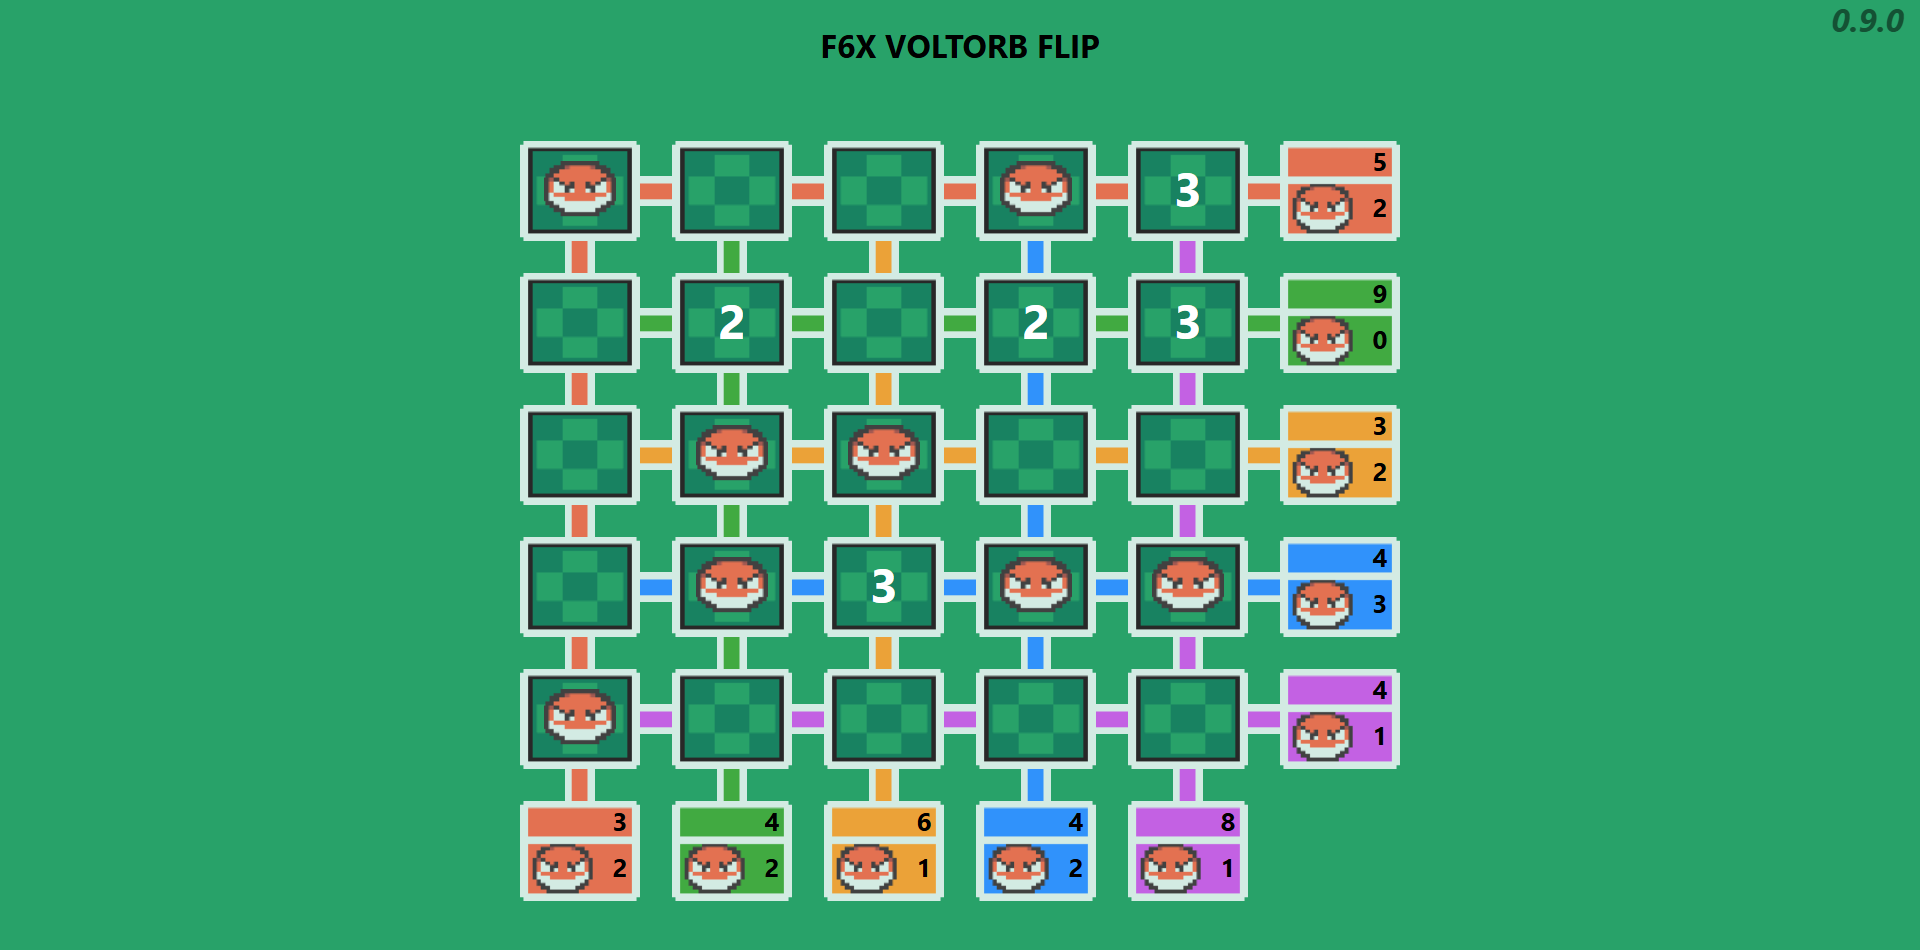
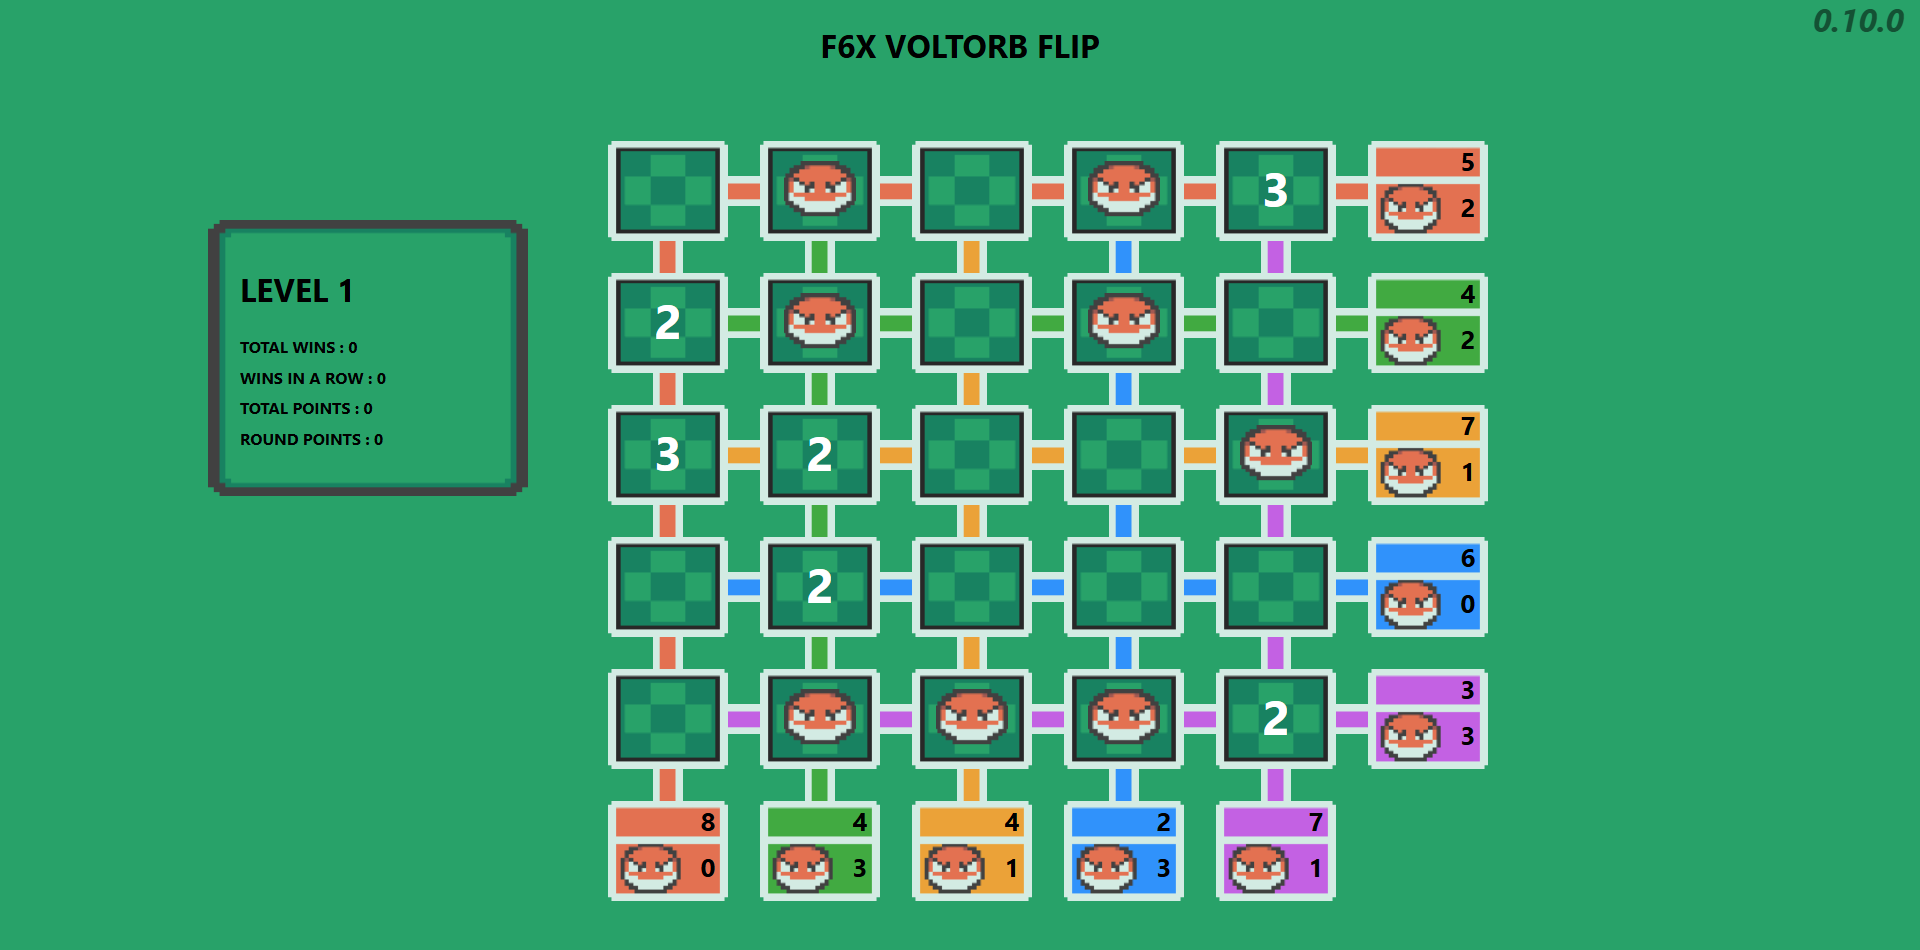
F6X VOLTORB FLIP 0.10.0
Add Stats Component
Add Stats.js
Add Images
Add MainSection.js
Update App.js
Update index.css

Changed region(s): [[0.0938, 0.1221, 0.7812, 0.9463], [0.9375, 0.0, 0.9688, 0.0305]]

diff --git a/src/Components/Stats.js b/src/Components/Stats.js
@@ -1,0 +1,50 @@
+/**
+ * @component Stats.
+ * @returns {JSX.Element} - The Stats component.
+ */
+export default function Stats() {
+    /**
+     * The Current Level.
+     * @type {number}.
+     */
+    const level = 1
+
+    /**
+     * The Total Wins.
+     * @type {number}.
+     */
+    const totalWins = 0
+
+    /**
+     * The Wins in a Row.
+     * @type {number}.
+     */
+    const winsRow = 0
+
+    /**
+     * The Total Points.
+     * @type {number}.
+     */
+    const totalPoints = 0
+
+    /**
+     * The Current Round Points.
+     * @type {number}.
+     */
+    const roundPoints = 0
+
+    return (
+        <div className="stats">
+            <div className="stats-content">
+                <div className="texts">
+                    <h1>LEVEL {level}</h1>
+                    <p>TOTAL WINS : {totalWins}</p>
+                    <p>WINS IN A ROW : {winsRow}</p>
+                    <p>TOTAL POINTS : {totalPoints}</p>
+                    <p>ROUND POINTS : {roundPoints}</p>
+                </div>
+                <img src="items/Container.png" alt="Stats Background" />
+            </div>
+        </div>
+    )
+}

diff --git a/src/index.css b/src/index.css
@@ -51,12 +51,54 @@ body {
   justify-content: center;
 }
 
-.board {
+.main-section {
   height: 90%;
+  display: flex;
+  flex-direction: row;
+  margin-left: 10rem;
+}
+
+.stats,
+.board {
   display: flex;
   flex-direction: column;
   justify-content: center;
   align-items: center;
+  padding: 2rem;
+}
+
+.stats {
+  width: 26rem;
+  justify-content: start;
+  padding-top: 8rem;
+}
+
+.stats-content {
+  width: 20rem;
+  display: flex;
+  align-items: center;
+  justify-content: center;
+}
+
+.stats-content .texts {
+  width: 16rem;
+  position: absolute;
+  display: flex;
+  flex-direction: column;
+  gap: 0.6rem;
+  font-weight: bold;
+}
+
+.stats-content .texts h1 {
+  margin-bottom: 1rem;
+}
+
+.stats-content img {
+  width: 100%;
+  height: 100%;
+}
+
+.board {
   gap: 2rem;
 }
 

diff --git a/src/Components/App.js b/src/Components/App.js
@@ -1,5 +1,5 @@
 import Title from "./Title"
-import Board from "./Board"
+import MainSection from "./MainSection"
 import VersionWaterMark from "./VersionWaterMark"
 
 /**
@@ -10,7 +10,7 @@ export default function App() {
   return (
     <div className="app">
       <Title />
-      <Board />
+      <MainSection />
       <VersionWaterMark />
     </div>
   )

diff --git a/src/Components/MainSection.js b/src/Components/MainSection.js
@@ -1,0 +1,15 @@
+import Stats from "./Stats"
+import Board from "./Board"
+
+/**
+ * @component Main Section.
+ * @returns {JSX.Element} - The Main Section component.
+ */
+export default function MainSection() {
+    return (
+        <div className="main-section">
+            <Stats />
+            <Board />
+        </div>
+    )
+}

diff --git a/README.md b/README.md
@@ -11,7 +11,7 @@
 
 - **STACK :**
 
-  - **F6X VOLTORB FLIP** : `0.9.0`
+  - **F6X VOLTORB FLIP** : `0.10.0`
   - **React** : `18.3.1`
   - **React Dom** : `18.3.1`
 
